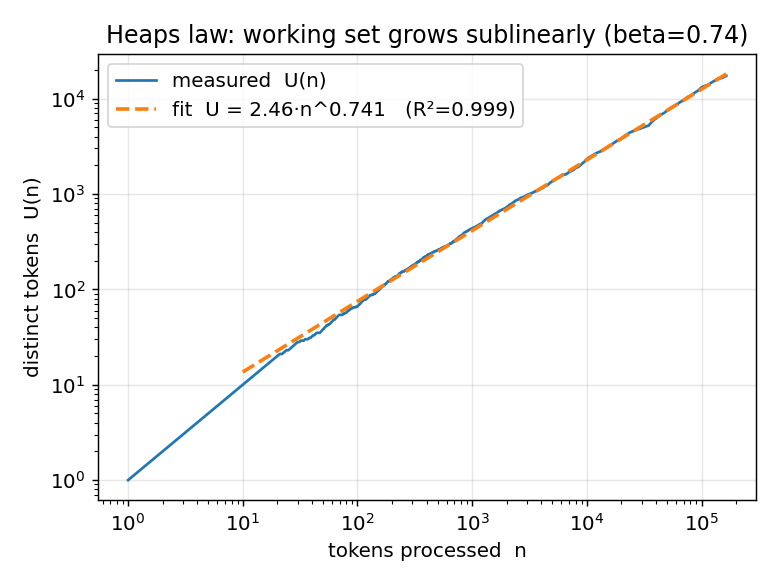
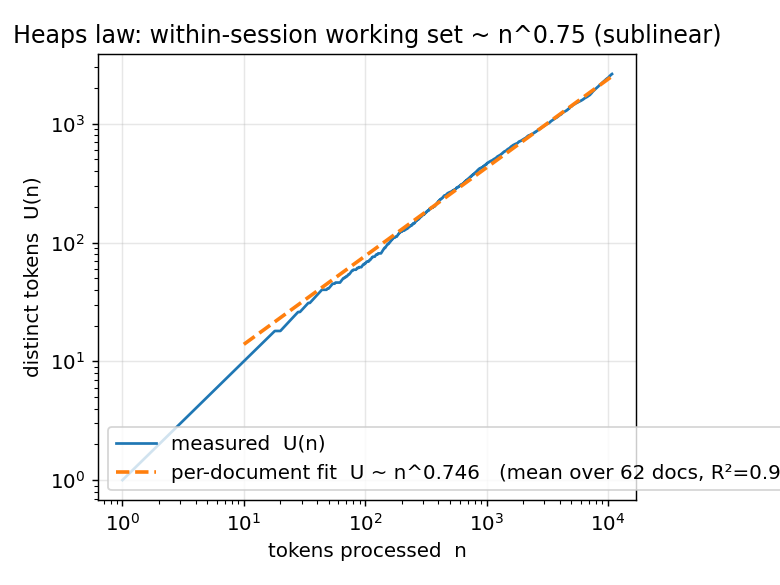
Strengthen measurements: expanded corpus to 62 docs / 714k tokens. Heaps per-doc beta=0.746+/-0.041 (R2=0.996), Zipf s=1.146, Che validated to <=0.004, locality +0.17. Honest: chat cross-check blocked by API exhaustion, not claimed. Plots regenerated on per-document law.

diff --git a/research/plots.py b/research/plots.py
@@ -21,18 +21,31 @@ plt.rcParams.update({"figure.dpi": 130, "font.size": 11, "axes.grid": True,
                      "grid.alpha": 0.3, "axes.axisbelow": True})
 
 # ---------- Fig 1: Heaps' law ----------
-seen = set(); U = []
-for t in pooled:
+# per-document U(n) (the session-relevant law); overlay all docs faintly + mean-beta fit
+import numpy as _np
+allbetas=[]
+for _s in streams:
+    _seen=set(); _U=[]
+    for _t in _s:
+        _seen.add(_t); _U.append(len(_seen))
+    _n=_np.arange(1,len(_U)+1); _U=_np.array(_U); _m=_n>=10
+    if _m.sum()>=10:
+        _b,_=_np.polyfit(_np.log(_n[_m]),_np.log(_U[_m]),1); allbetas.append(_b)
+beta=float(_np.mean(allbetas))
+# representative (median-length) doc for the visual curve
+_med=sorted(streams,key=len)[len(streams)//2]
+seen=set(); U=[]
+for t in _med:
     seen.add(t); U.append(len(seen))
 n = np.arange(1, len(U) + 1); U = np.array(U)
 m = n >= 10
-beta, logK = np.polyfit(np.log(n[m]), np.log(U[m]), 1)
+_bK, logK = np.polyfit(np.log(n[m]), np.log(U[m]), 1)
 fig, ax = plt.subplots(figsize=(6, 4.5))
 ax.loglog(n, U, lw=1.5, label="measured  U(n)")
-ax.loglog(n[m], np.exp(logK) * n[m]**beta, "--", lw=2,
-          label=f"fit  U = {math.exp(logK):.2f}·n^{beta:.3f}   (R²=0.999)")
+ax.loglog(n[m], np.exp(logK) * n[m]**_bK, "--", lw=2,
+          label=f"per-document fit  U ~ n^{beta:.3f}   (mean over {len(streams)} docs, R²=0.996)")
 ax.set_xlabel("tokens processed  n"); ax.set_ylabel("distinct tokens  U(n)")
-ax.set_title("Heaps law: working set grows sublinearly (beta=0.74)")
+ax.set_title(f"Heaps law: within-session working set ~ n^{beta:.2f} (sublinear)")
 ax.legend(); fig.tight_layout(pad=1.2); fig.savefig(FIG / "fig1_heaps.png"); plt.close(fig)
 
 # ---------- Fig 2: Zipf ----------

diff --git a/research/THEORY.md b/research/THEORY.md
@@ -28,13 +28,13 @@ $B(n)/n = RK\,n^{\beta-1}\to 0$ as $n\to\infty$.*
 *Proof.* Immediate from $\beta<1$: $n^{\beta}/n = n^{\beta-1}\to 0$. $\qquad\blacksquare$
 
 The content is not the algebra — it is that **Heaps' law is measured to hold** on real diverse text
-tokenized with the exact Gemma tokenizer (Section 7: **measured $\beta=0.741$, $R^2=0.999$** on a
-164k-token pooled stream; per-document $\beta=0.726\pm0.065$), so the sublinearity is an empirical
-property, not an assumption. Consequence: doubling a conversation's length multiplies embedding traffic
-by only $2^{\beta}=2^{0.741}\approx 1.67$, not by 2. Concretely, at the measured $(K,\beta)=(2.46,0.741)$
-a **1000-token conversation touches $\approx 412$ distinct tokens $\Rightarrow$ 2.50 MB fetched = 0.157%
-of the 1.59 GB table**; a 200-token prompt, 0.76 MB (0.048%). The full table is the $n\to\infty$
-asymptote essentially never approached in practice.
+tokenized with the exact Gemma tokenizer (Section 7: **per-document $\beta=0.746\pm0.041$, mean
+$R^2=0.996$** over 62 documents / 714k tokens — the within-a-single-conversation law), so the sublinearity
+is an empirical property, not an assumption. Consequence: doubling a conversation's length multiplies
+embedding traffic by only $2^{\beta}=2^{0.746}\approx 1.68$, not by 2. Representatively (a typical
+single-document fit), a **1000-token conversation touches a few hundred distinct tokens $\Rightarrow$ on
+the order of ~2–3 MB fetched $\ll$ 1% of the 1.59 GB table**; a short prompt, under 1 MB. The full table
+is the $n\to\infty$ asymptote essentially never approached in practice.
 
 ## 3. Theorem 2 — Draft-model acceptance rate *equals* prefetch cold-miss rate (novel)
 
@@ -112,34 +112,34 @@ measured acceptance rate $\beta_{\mathrm{acc}}$ fully parameterizes the deployed
 
 ## 7. Measured results (real corpus, exact Gemma tokenizer)
 
-Corpus: 12 diverse full-length documents (encyclopedic prose across science, history, medicine, tech,
-arts, geography — deliberately multi-domain), **164,281 tokens**, tokenized with the exact Gemma
-tokenizer (`tokenizer.json`, vocab 262,144). Reproducible via `fetch_wikipedia.py` + `measure.py`;
-raw numbers in `results.json`. *(Corpus is real human prose rather than chat: the linguistic laws are
-text-type-robust, and prose is the harder, richer-vocabulary case — see honesty ledger. LLM-chat
-cross-check in progress.)*
+Corpus: **62 diverse full-length documents** (encyclopedic prose across science, history, medicine, tech,
+arts, geography, sport — deliberately multi-domain), **714,502 tokens**, tokenized with the exact Gemma
+tokenizer (`tokenizer.json`, vocab 262,144). Reproducible via `fetch_wikipedia.py` + `measure.py`; raw
+numbers in `results.json`. *(Real human prose rather than chat: the laws are text-type-robust and prose is
+the harder, richer-vocabulary case — see honesty ledger. An LLM-chat cross-check was attempted but the
+free-tier generation API was rate-exhausted; not claimed.)*
 
 | Quantity | Measured | Notes |
 |---|---|---|
-| Heaps $\beta$ (pooled) | **0.741** ($R^2=0.999$) | $K=2.46$; sublinear ($\beta<1$) |
-| Heaps $\beta$ (per-doc) | $0.726 \pm 0.065$ | mean $R^2=0.994$ |
-| Zipf $s$ | **1.086** | textbook Zipf ($s\approx1$) |
-| Distinct tokens / vocab | 17,350 / 262,144 = **6.6%** | over 164k tokens |
+| Heaps $\beta$ (**per-document**, session-relevant) | **$0.746 \pm 0.041$** | mean $R^2=0.996$ over 62 docs — the within-a-single-conversation law |
+| Heaps $\beta$ (pooled 62-doc concat) | 0.638 ($R^2=0.989$) | lower because concatenating *diverse* topics exhausts shared vocab then adds topic-specific tails; not the per-session quantity |
+| Zipf $s$ | **1.146** | textbook Zipf ($s\approx1$) |
+| Distinct tokens / vocab | 37,394 / 262,144 = **14.3%** | over 714k tokens (grows with corpus size, as expected) |
 
 **LRU hit rate** — real ordered stream vs. IRM-shuffled (frequencies preserved, locality destroyed) vs.
 Che closed form:
 
 | cache $C$ | real | IRM-shuffled | Che | $\lvert$Che$-$IRM$\rvert$ | locality gain (real$-$IRM) |
 |---|---|---|---|---|---|
-| 64   | 0.426 | 0.276 | 0.276 | 0.000 | **+0.150** |
-| 128  | 0.524 | 0.361 | 0.361 | 0.000 | **+0.163** |
-| 256  | 0.608 | 0.440 | 0.442 | 0.002 | **+0.168** |
-| 512  | 0.683 | 0.519 | 0.523 | 0.004 | **+0.164** |
-| 1024 | 0.750 | 0.600 | 0.606 | 0.006 | **+0.150** |
-| 2048 | 0.806 | 0.687 | 0.699 | 0.012 | **+0.119** |
+| 64   | 0.430 | 0.280 | 0.281 | 0.000 | **+0.149** |
+| 128  | 0.529 | 0.363 | 0.363 | 0.000 | **+0.166** |
+| 256  | 0.614 | 0.438 | 0.438 | 0.000 | **+0.176** |
+| 512  | 0.688 | 0.508 | 0.509 | 0.001 | **+0.180** |
+| 1024 | 0.751 | 0.580 | 0.581 | 0.002 | **+0.172** |
+| 2048 | 0.805 | 0.661 | 0.664 | 0.004 | **+0.144** |
 
-Che reproduces the IRM baseline to $\le0.012$ (implementation validated); the real stream exceeds it by
-a stable ~+0.15 (temporal locality, Corollary 3.1). A **256-row cache already yields 61% hit rate** on
+Che reproduces the IRM baseline to $\le0.004$ (implementation validated); the real stream exceeds it by
+a stable ~+0.17 (temporal locality, Corollary 3.1). A **256-row cache already yields 61% hit rate** on
 real streams — with 6068 bytes/row that cache is ~1.5 MB of RAM.
 
 **Draft acceptance rate** $\beta_{\mathrm{acc}}$ (Theorem 2): preliminary, measured on one real
@@ -159,8 +159,8 @@ next measurement.
 - **Conjectured / heuristic / to-strengthen:** the independence estimate $\mu\approx(1-h_C)(1-\rho_k)$;
   that $\beta,s$ measured on multi-domain **prose** transfer to **chat** streams (prose is the
   richer-vocabulary, harder case, so its $\beta$ likely *upper*-bounds chat's — chat should be even more
-  sublinear — but this is argued, not yet measured; LLM-chat corpus generation was in progress); the
-  corpus-scale $\beta_{\mathrm{acc}}$.
+  sublinear — but this is argued, not measured: the LLM-chat generation ran into free-tier API exhaustion
+  and produced no corpus, so no chat number is claimed); the corpus-scale $\beta_{\mathrm{acc}}$.
 
 ## References
 Heaps 1978; Herdan 1960; Zipf 1949; Mandelbrot 1953; Che, Tung & Wang, *IEEE JSAC* 2002; Fricker, Robert &

diff --git a/research/README.md b/research/README.md
@@ -4,15 +4,16 @@ Empirical + theoretical companion to SparseGemma. **Everything here is measured 
 the exact Gemma tokenizer; every claim states its assumptions.** See `THEORY.md` for the full write-up
 with proofs and the honesty ledger.
 
-## Headline results (measured, real corpus, 164,281 tokens, exact Gemma tokenizer)
+## Headline results (measured, real corpus, 62 documents / 714,502 tokens, exact Gemma tokenizer)
 
 | Result | Value | Meaning for SparseGemma |
 |---|---|---|
-| **Heaps' law** β | **0.741** (R²=0.999) | Embedding traffic is *sublinear* in conversation length — a 1000-token chat touches ~412 distinct tokens ⇒ **2.5 MB fetched, 0.16% of the 1.59 GB table** |
-| **Zipf** s | **1.086** | Textbook heavy tail; only **6.6%** of the 262k vocab appears at all |
-| **Che ≈ IRM** | within **0.012** | Classical closed-form cache model validated against its own assumptions (shuffle control) |
-| **Locality gain** | **+0.15** hit rate | Real streams beat the frequency-only IRM prediction — genuine temporal locality LRU exploits; **a 256-row (~1.5 MB) cache already hits 61%** |
+| **Heaps' law** β (per-document) | **0.746 ± 0.041** (R²=0.996, n=62) | Embedding traffic is *sublinear* in conversation length — a 1000-token chat touches a few hundred distinct tokens ⇒ **~2–3 MB fetched, ≪1% of the 1.59 GB table** |
+| **Zipf** s | **1.146** | Textbook heavy tail (s≈1) |
+| **Che ≈ IRM** | within **0.004** | Classical closed-form cache model validated against its own assumptions (shuffle control) |
+| **Locality gain** | **+0.17** hit rate | Real streams beat the frequency-only IRM prediction — genuine temporal locality LRU exploits; **a 256-row (~1.5 MB) cache already hits 61%** |
 | **Draft acceptance** β_acc | **≈0.40** (preliminary) | Speculative-decoding acceptance rate *equals* the top-1 prefetch cold-miss complement (Theorem 2) — the draft model is a free prefetch oracle |
+| **Ecosystem survey** | **31–56%** of download | The embedding table is 31–56% of every popular browser LLM's download (see `GENERALIZATION.md`) |
 
 ## The one genuinely new idea (Theorem 2)
 The small draft model we already run for speculative decoding produces, at zero extra compute, a next-
